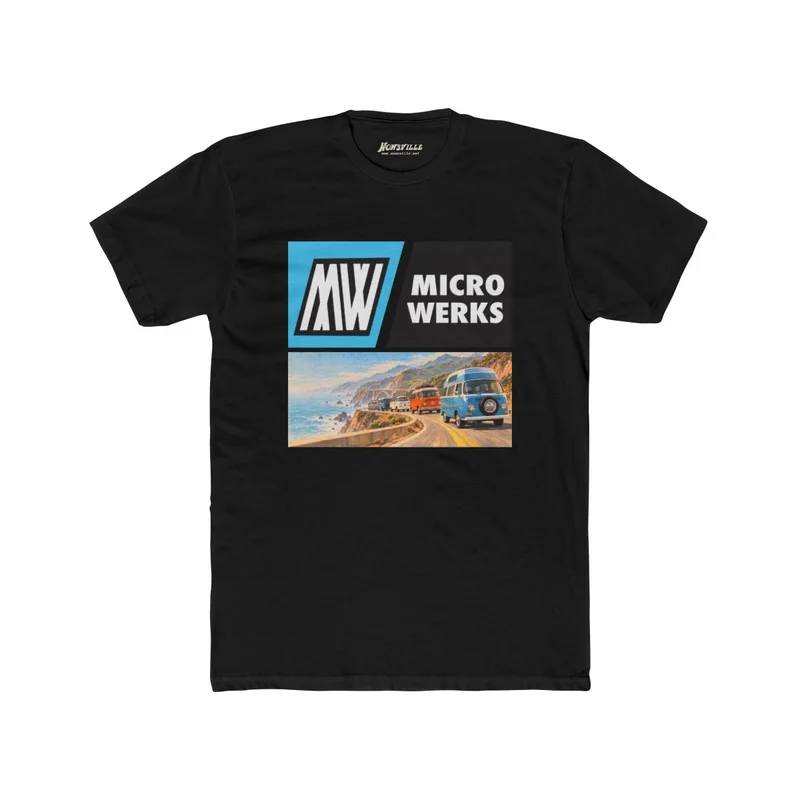
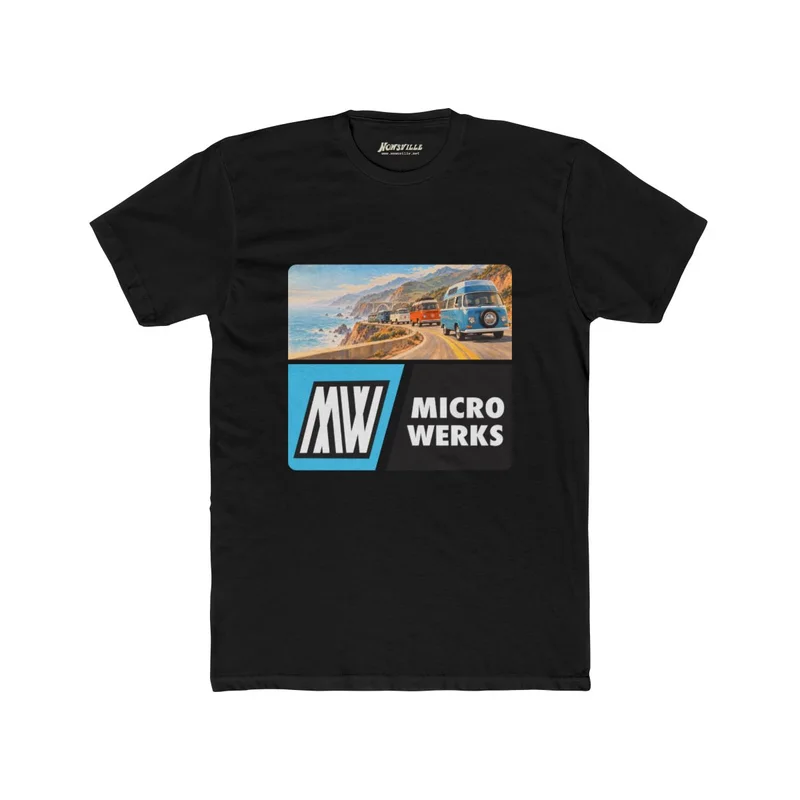
Merch: updated micro.werks tee layout

Changed region(s): [[0.3438, 0.2812, 0.6562, 0.5938]]

diff --git a/index.html b/index.html
@@ -107,7 +107,7 @@ h2.d{font-size:clamp(3.6rem,11vw,10rem);margin:18px 0 26px}
 .merch h2.d{font-size:clamp(4rem,15vw,14rem)}
 .merch .lede{color:#111011cc}
 .tees{display:grid;grid-template-columns:repeat(4,1fr);gap:14px;margin-top:40px}
-.tee.big{grid-column:span 2}.tee.big img{aspect-ratio:2/1;object-position:50% 36%}
+.tee.big{grid-column:span 2}.tee.big img{aspect-ratio:2/1;object-position:50% 44%}
 .tee{display:block;background:#fff;color:var(--ink);text-decoration:none;padding:0 0 12px;transition:transform .2s ease}
 .tee:hover{transform:translateY(-3px)}
 .tee img{display:block;width:100%;aspect-ratio:1;object-fit:cover}
@@ -295,7 +295,7 @@ footer .ig{color:var(--cyan);font-weight:800;text-decoration:none;letter-spacing
     <h2 class="d">Shirts.</h2>
     <p class="lede">Bus and buggy tees from our sister shop, <a href="https://nowsville.net" target="_blank" rel="noopener" style="font-weight:800">NOWSVILLE</a>. Follow along on <a href="https://www.instagram.com/micro.werks/" target="_blank" rel="noopener" style="font-weight:800">Instagram</a>.</p>
     <div class="tees">
-      <a class="tee big" href="https://nowsville.net/products/micro-werks-t-shirt" target="_blank" rel="noopener"><img src="img/merch/micro-werks-t-shirt.webp" alt="Black micro.werks tee with the logo over a painted line of VW buses on the coast" loading="lazy"><b>micro.werks tee</b><span>$25</span></a>
+      <a class="tee big" href="https://nowsville.net/products/micro-werks-t-shirt" target="_blank" rel="noopener"><img src="img/merch/micro-werks-t-shirt.webp" alt="Black micro.werks tee with a painted line of VW buses on the coast stacked over the logo" loading="lazy"><b>micro.werks tee</b><span>$25</span></a>
       <a class="tee" href="https://nowsville.net/products/get-lost-production" target="_blank" rel="noopener"><img src="img/merch/get-lost-production.webp" alt="Get Lost tee from NOWSVILLE" loading="lazy"><b>Get Lost tee</b><span>$35</span></a>
       <a class="tee" href="https://nowsville.net/products/dont-blow-it-t-shirt" target="_blank" rel="noopener"><img src="img/merch/dont-blow-it-t-shirt.webp" alt="Don&#39;t Blow It tee from NOWSVILLE" loading="lazy"><b>Don&#39;t Blow It tee</b><span>$24</span></a>
       <a class="tee" href="https://nowsville.net/products/get-away-t-shirt" target="_blank" rel="noopener"><img src="img/merch/get-away-t-shirt.webp" alt="Get Away tee from NOWSVILLE" loading="lazy"><b>Get Away tee</b><span>$35</span></a>
